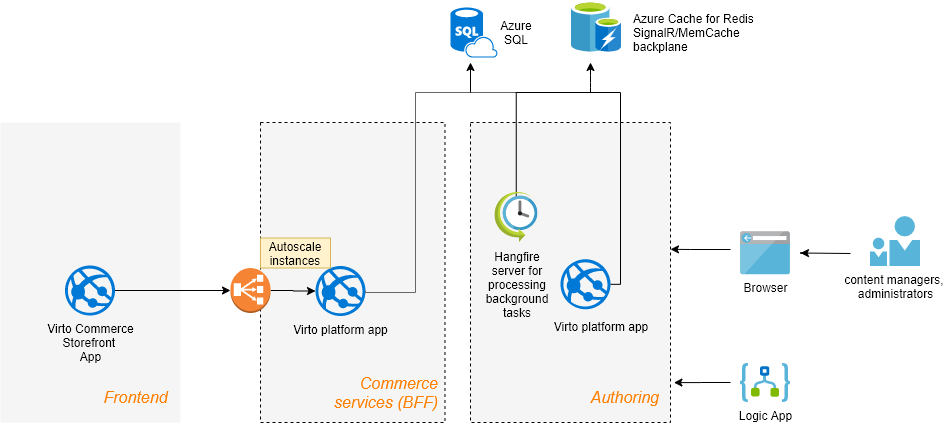
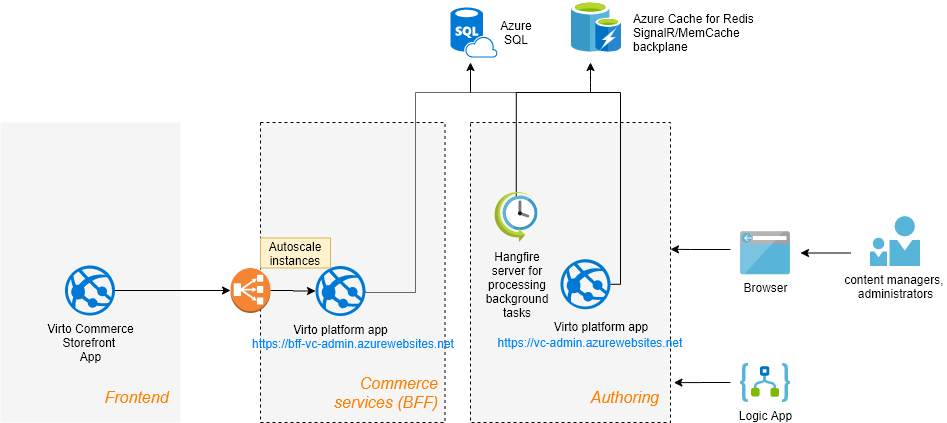
Update how-to-scale-out-platform article according to the latest  code changes

diff --git a/docs/techniques/how-scale-out-platform-on-azure.md b/docs/techniques/how-scale-out-platform-on-azure.md
@@ -48,19 +48,32 @@ The following example shows how to setup using the Redis backplane for memory ca
     },
 ```
 
-##  SignalR Push notification. Use the Redis server backplane
+##  Scaling push notifications
 The push notification that is used in the manager is built on the [SignalR](https://docs.microsoft.com/en-us/aspnet/core/signalr/introduction?view=aspnetcore-3.1) library.
-In order to be able to see all push notifications on the manager that even emits by different platform instances, you need to configure you platform to use Redis server backplane for SignalR messages. You can read more details how it works underhood by this link [Set up a Redis backplane for ASP.NET Core SignalR scale-out](https://docs.microsoft.com/en-us/aspnet/core/signalr/redis-backplane?view=aspnetcore-3.1)
+In order to be able to see all push notifications on the manager that even emits by different platform instances, you can use the two scaling modes to configure you platform to use **Redis server backplane** or use **Azure SignalR** services. You can read more details how it works underhood by this link [Set up a Redis backplane for ASP.NET Core SignalR scale-out](https://docs.microsoft.com/en-us/aspnet/core/signalr/redis-backplane?view=aspnetcore-3.1)
 
+Here is the example of how to configure scaling for push notifications with using **Redis backplane** mode. 
 *appsettings.json*
 ```json
-"SignalR": {
-        //Possible values: RedisBackplane (default) | AzureSignalRService
-        //RedisBackplane will be activated only when RedisConnectionString is set otherwise no any SignalR scaling options will be used 
-        "ScalabilityProvider": "RedisBackplane",
+...
+"ConnectionStrings": {
+        ...
+        //Add RedisConnectionString value to start using Redis server as backplane for memory cache synchronization
+        "RedisConnectionString": "vc.redis.cache.windows.net:6380,password={password}=,ssl=True,abortConnect=False"
+        ...
+    },
+...
+"PushNotifications": {
+        //Possible values: RedisBackplane | AzureSignalRService | None
+        "ScalabilityMode": "RedisBackplane",
+        //The URL used to connect the platform as  client to the SignalR endpoint with push notifications (/pushNotificationHub) to be able sync the local notifications storage with notifications are produced by other platform instances
+        //Need to replace this value to a full URL to  /pushNotificationHub on the production server e.g https://your-app-name.azurewebsites.net/pushNotificationHub
+        "HubUrl": "https://{your-app-name}.azurewebsites.net/pushNotificationHub",      
         "RedisBackplane": {
             "ChannelName": "VirtoCommerceChannel"
         }
+    }
+...
 ```
 
 ## Configure the Hangfire server to processing background jobs into another process
@@ -101,7 +114,7 @@ Here is the config of how to switch platform instance to works as Hangfire serve
 ```
 
 
-## The resulting configuration for **Commerce Service** platform instances
+## The resulting configuration for **Commerce Service** [https://bff-vc-admin.azurewebsites.net]() platform instances
 
 *appsettings.json*
 ```json
@@ -118,24 +131,23 @@ Here is the config of how to switch platform instance to works as Hangfire serve
                ...
          }
          ...
-     "SignalR": {
-        //Possible values: RedisBackplane (default) | AzureSignalRService
-        //RedisBackplane will be activated only when RedisConnectionString is set otherwise no any SignalR scaling options will be used 
-        "ScalabilityProvider": "RedisBackplane",
+     "PushNotifications": {
+        "ScalabilityMode": "RedisBackplane",     
+        "HubUrl": "https://bff-vc-admin.azurewebsites.net/pushNotificationHub",      
         "RedisBackplane": {
             "ChannelName": "VirtoCommerceChannel"
         }
+    }
         ...
 
 ```
 
-## The resulting configuration for **Authoring** platform instances
+## The resulting configuration for **Authoring** [https://vc-admin.azurewebsites.net]() platform instances
 
 *appsettings.json*
 ```json
  "ConnectionStrings": {
          "VirtoCommerce": "Data Source=tcp:dev-odt.database.windows.net,1433;Initial Catalog={db-name};User ID={db-admin-name};Password={password};MultipleActiveResultSets=True;Connection Timeout=30;Trusted_Connection=False;Encrypt=True;"
-        //Add RedisConnectionString value to start using Redis server as backplane for memory cache synchronization
         "RedisConnectionString": "vc.redis.cache.windows.net:6380,password={password}=,ssl=True,abortConnect=False"
     },
     ...
@@ -146,13 +158,13 @@ Here is the config of how to switch platform instance to works as Hangfire serve
                ...
          }
          ...
-     "SignalR": {
-        //Possible values: RedisBackplane (default) | AzureSignalRService
-        //RedisBackplane will be activated only when RedisConnectionString is set otherwise no any SignalR scaling options will be used 
-        "ScalabilityProvider": "RedisBackplane",
+   "PushNotifications": {
+        "ScalabilityMode": "RedisBackplane",     
+        "HubUrl": "https://vc-admin.azurewebsites.net/pushNotificationHub",      
         "RedisBackplane": {
             "ChannelName": "VirtoCommerceChannel"
         }
+    }
         ...
 
 ```
